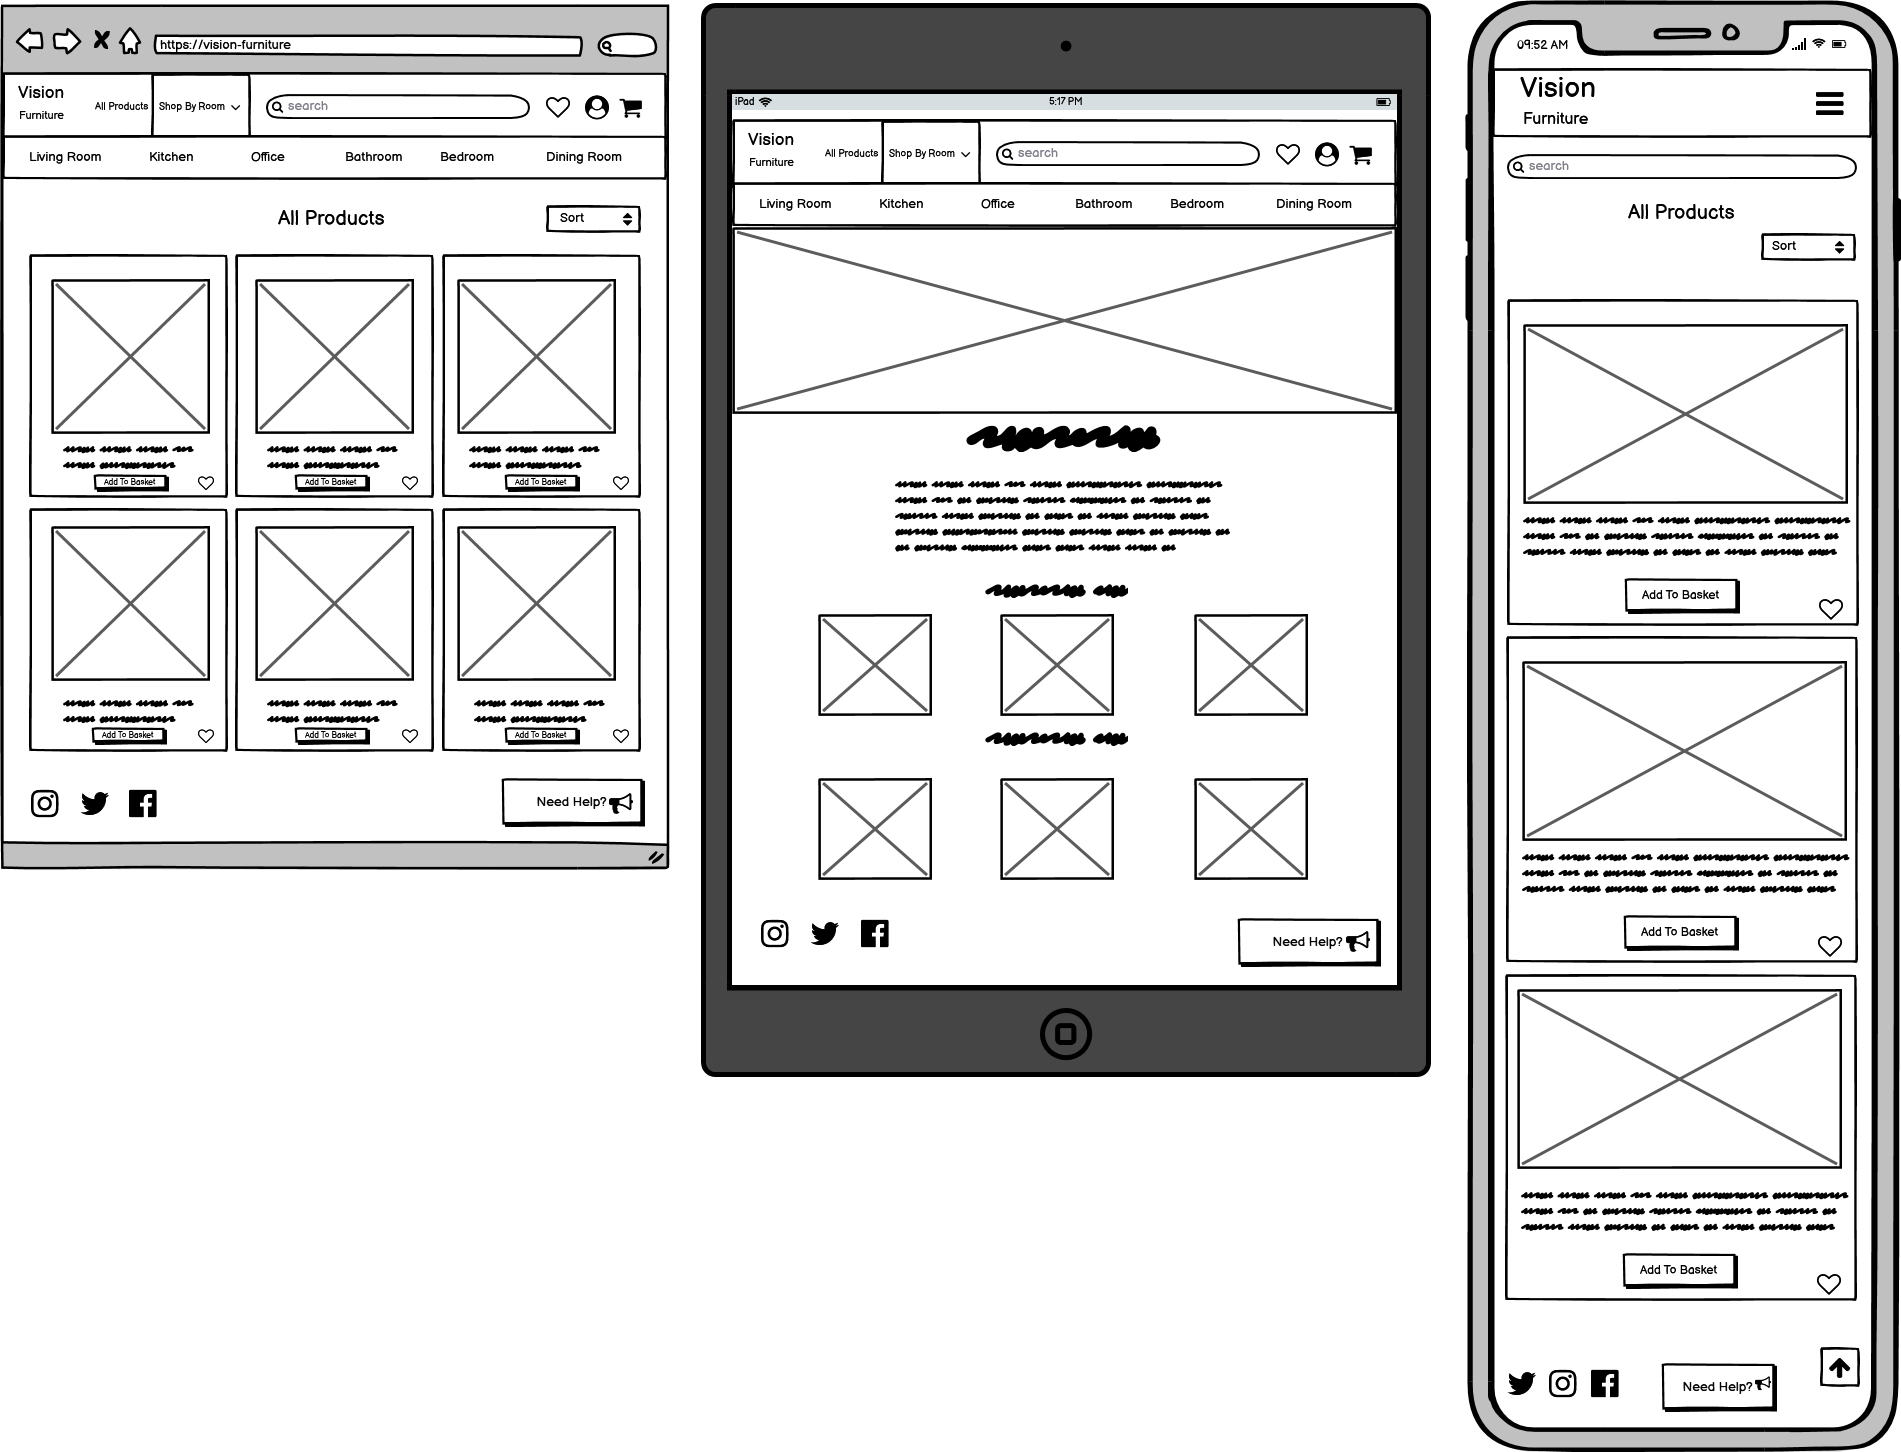
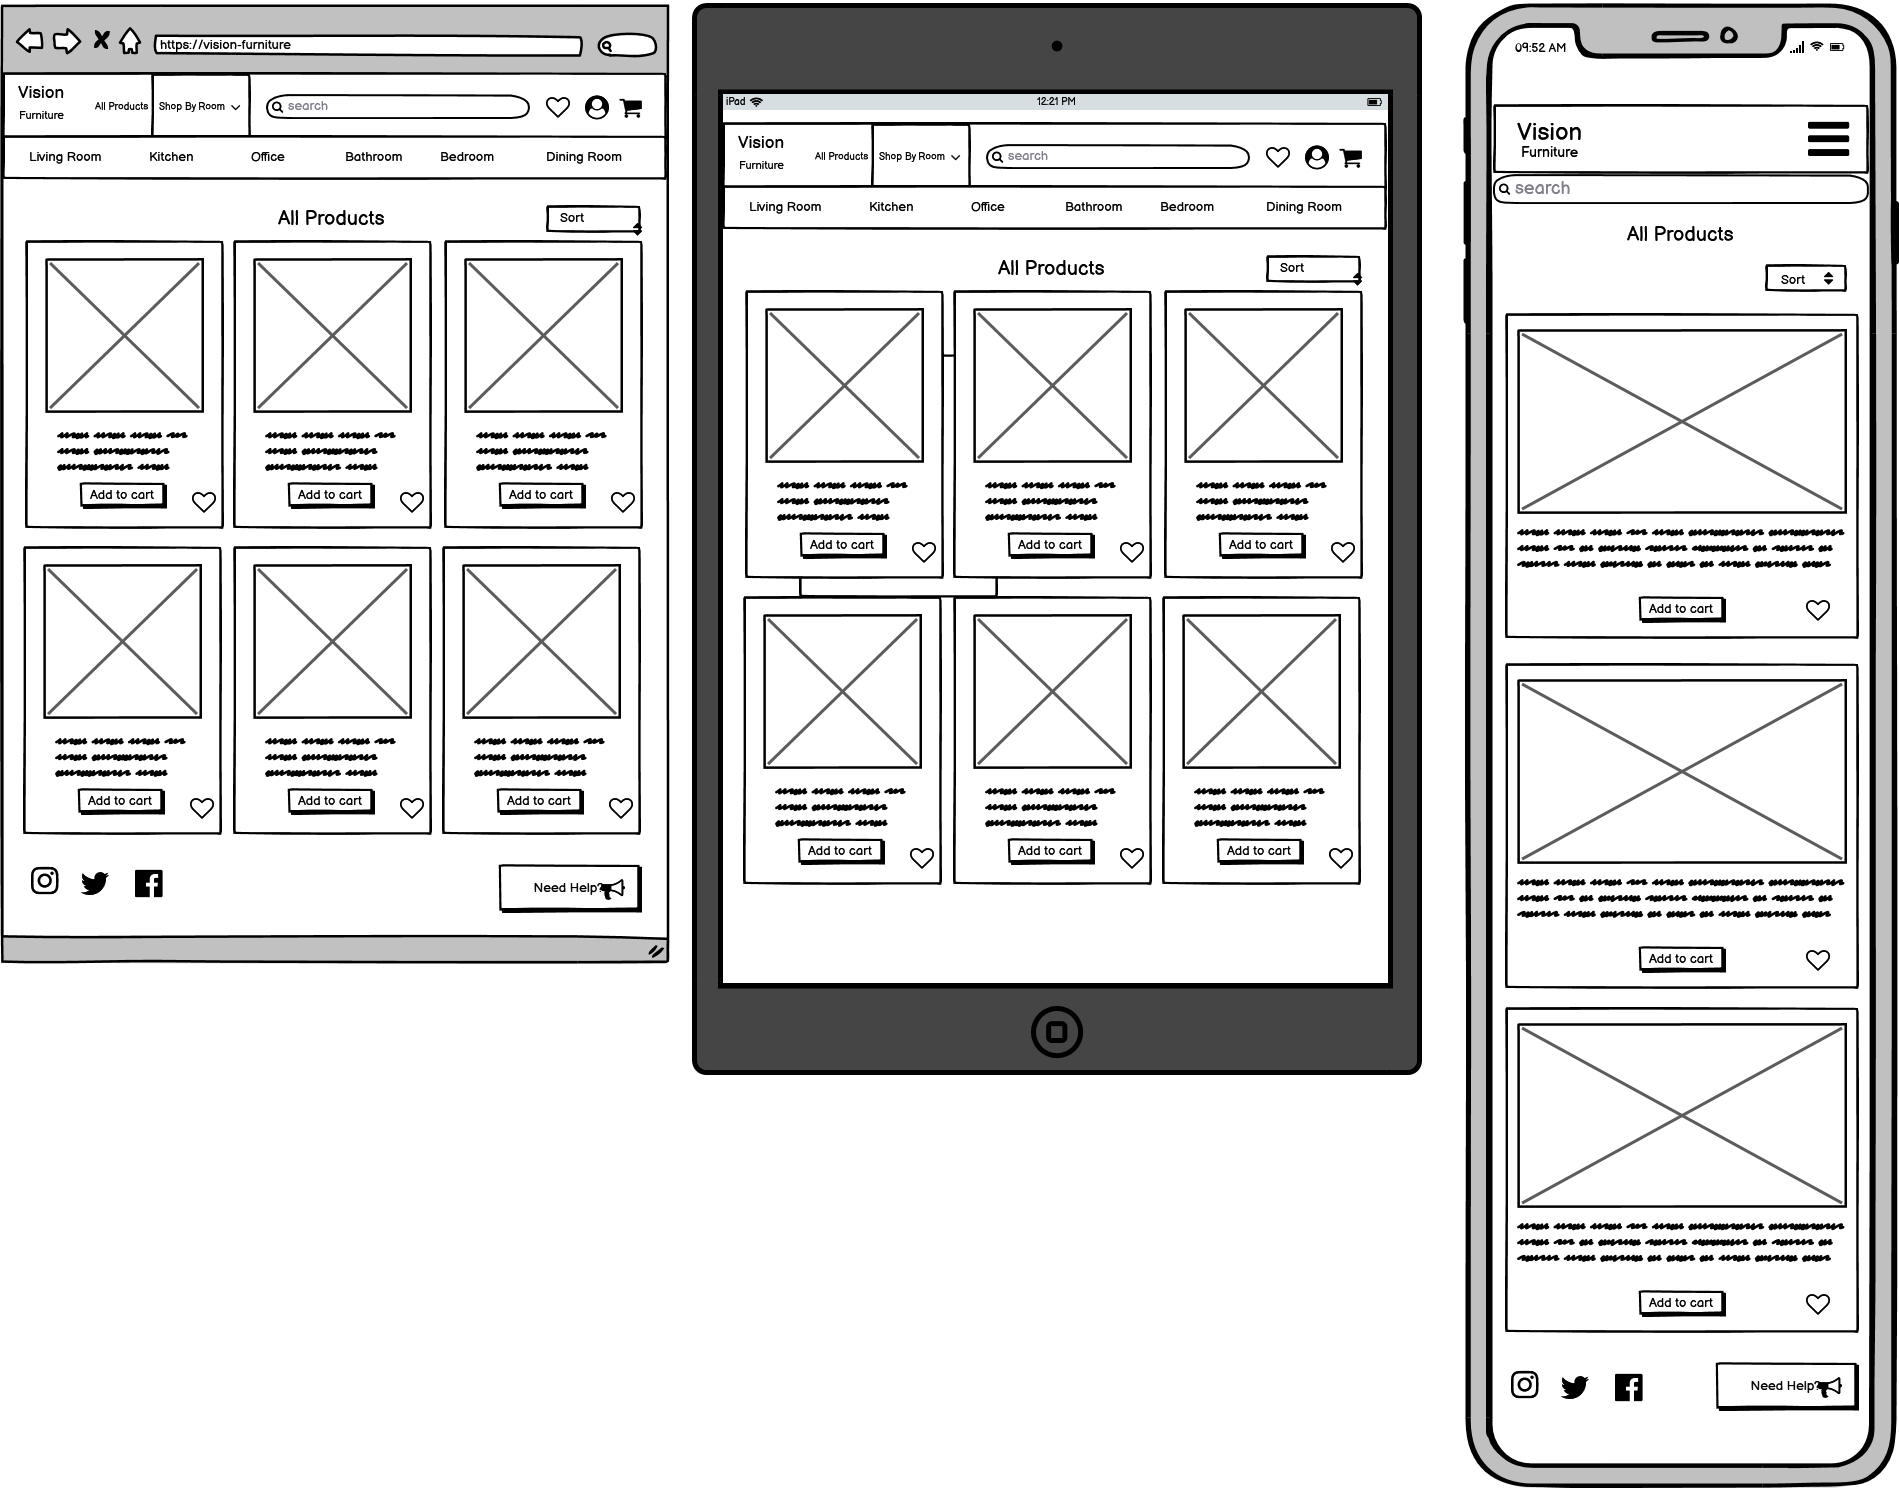
Add favorites to wireframes and fix error on product wireframe

Changed region(s): [[0.0, 0.0, 0.9942, 0.9917], [0.8699, 0.4959, 0.901, 0.5269]]

diff --git a/TESTING.md b/TESTING.md
@@ -323,7 +323,7 @@ displaying their image, name and quantity . Add different quantities of items an
 to see if the correct number of items was added. 
 9. The "Keep Shopping" button should direct to the all products page.
 
-#### Cart
+### Cart
 
 1. Should contain the title "Shopping Cart"
 2. Underline graphic must display under title.
@@ -340,7 +340,7 @@ page also.
 10. With items in the cart logout and go to the cart page, it must display blank with a subheading of "Your cart is empty".
 11. Log back in again and check if the items from the previous login are still in the cart.
 
-#### Checkout
+### Checkout
 
 1. The checkout page should only be accessible with items in the cart.
 2. Must contain the title "Checkout"
@@ -373,7 +373,7 @@ direct to the checkout success page with a toast message to confirm.
 5. A box containing the order details below, check this information matches the placed order.
 6. Return to shop button should return to all products page.
 
-####  Edit Product
+###  Edit Product
 
 1. Must only be accessible for loged in superusers.
 2. Must contain the title "Product Administration"
@@ -386,7 +386,7 @@ depth, height, width, image url and current image.
 product detail page. Check on products pages that the information has updated also.
 
 
-####  Add Product
+###  Add Product
 
 1. Must only be accessible for loged in superusers.
 2. Must contain the title "Product Administration"
@@ -398,7 +398,7 @@ depth, height, width, image url and current image.
 7. Check functionality by adding information to all fields and selecting "Add product". This should then direct to the new 
 product detail page. Check on products pages that the new product displays.
 
-#### Favorites
+### Favorites
 
 1. Must only be accessible by logged in users.
 2. Must contain the title "Favorites"
@@ -410,7 +410,7 @@ and 1 item per row on mobile.
 6. Each item must display the product image, product name, product price and a button "View Item". When the button is
 selected users must be directed to that product details page.
 
-#### Help centre
+### Help centre
 
 1. Must contain the title "Help Centre"
 2. Underline graphic must display under title.
@@ -424,8 +424,39 @@ then return to the help centre to check if the updated information is displaying
 FAQ, then return to the help centre to check if the FAQ was deleted.
 8. Below the accordion a table displaying the delivery policy must display. 
 
+### Devtools
+
+The website was extensively tested for responsiveness in Google Chrome Devtools on the following devices:
+
+- Moto G4
+- Galaxy S5
+- Pixel 2
+- Pixel 2 XL
+- Phone 5/SE
+- Phone 6/7/8
+- Phone 6/7/8 Plus
+- Phone X
+- Ipad
+- Ipad Pro
+- Surface Duo
+- Galaxy Fold
+
+### Browsers
+
+The website was tested for responsiveness on the following browsers:
+
+- Google Chrome
+- Safari
+- Microsoft Edge
+- Firefox
+
+### Friends and family
+
+I requested some feedback from friends and family on the how the website displays on their devices. It was thereby sucessfully tested on iPhone 7, iPhone 8,
+ iPhone X, iPad, two makes of laptop computer and one desktop this covered Chrome, Microsoft Edge and Safari. 
 
 
+### Return to [README.md](README.md)
 
 
 

diff --git a/README.md b/README.md
@@ -199,6 +199,14 @@ to navigate a website and keep their user experience as streamlined as possible 
 </details>
 
 <details>
+<summary>Favorites (Click for images)</summary>
+<p align="center">
+
+![Image](readme-images/wireframes/favorites-wireframes.png)
+</p>
+</details>
+
+<details>
 <summary>Help Centre (Click for images)</summary>
 <p align="center">
 
